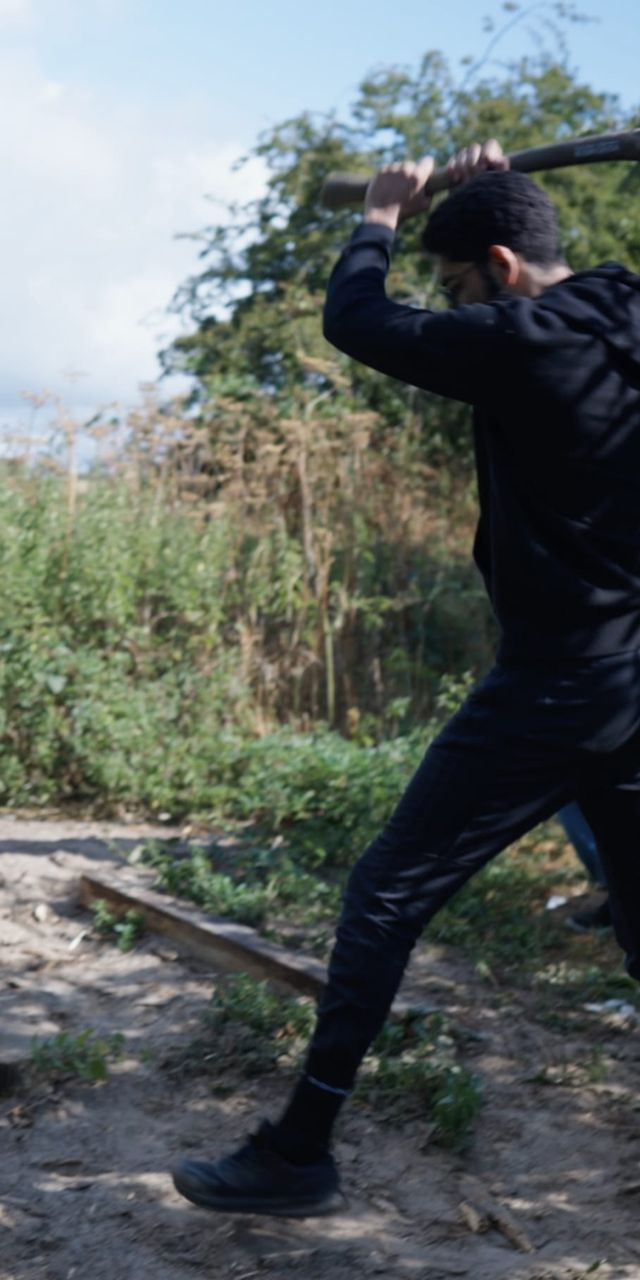
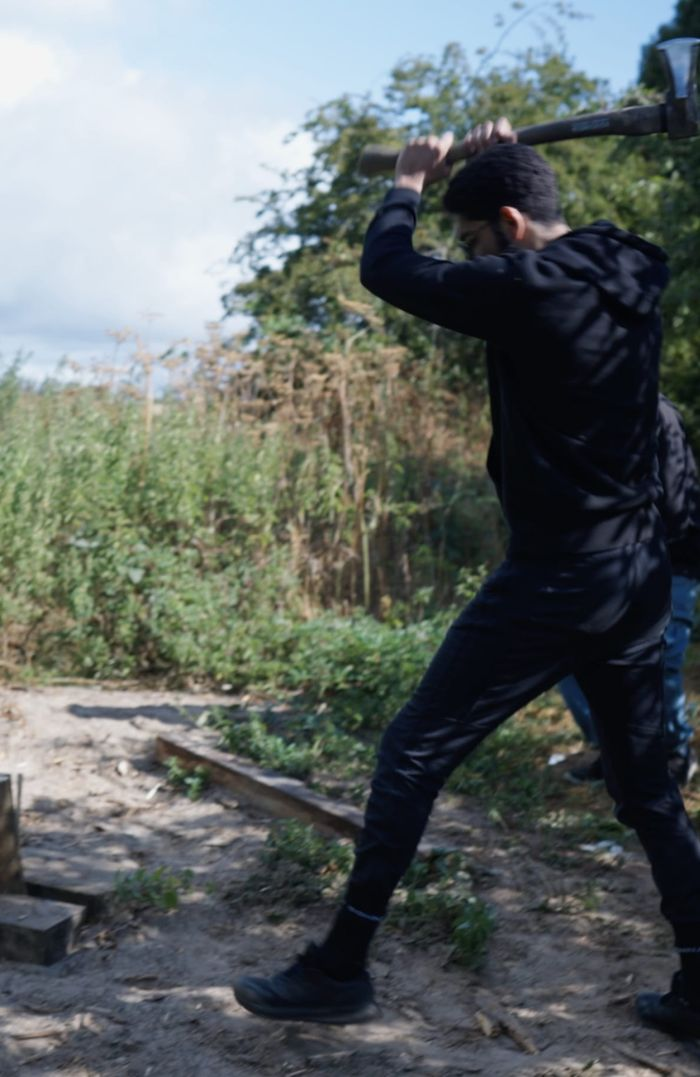
Pull the gallery crops back so the whole scene is in shot
The gallery cells render at roughly 4:3 on a desktop, but the photographs
were cut square, so object-fit cropped them a second time on top of the
crop I had already made. The sledgehammer shot lost the second man
swinging and most of the brothers watching; the axe shot lost the stump
being split.

Cut each one to the shape of the cell it lands in instead. The
sledgehammer now keeps 93% of the frame's width rather than 70%, and the
tall cell is 0.65 rather than 0.5, which brings the ground back into the
axe shot.

Two of the gallery images had also kept the width and height attributes
of the stock photographs they replaced, so the space the browser reserved
for them was the wrong shape. Every declared size now matches its file.

Claude-Session: https://claude.ai/code/session_01MxGJh3D1SjCUeranaM1zuK

diff --git a/index.html b/index.html
@@ -1473,22 +1473,22 @@ ul { margin: 0; padding: 0; list-style: none; }
       </div>
       <div class="gallery">
           <button type="button" class="gallery__item gallery__item--feature" data-lightbox>
-            <img src="images/two-riders-at-a-gallop-across-the-field.jpg" alt="Two riders at a gallop across the field" loading="lazy" decoding="async" width="1000" height="1000">
+            <img src="images/two-riders-at-a-gallop-across-the-field.jpg" alt="Two riders at a gallop across the field" loading="lazy" decoding="async" width="1200" height="900">
           </button>
           <button type="button" class="gallery__item " data-lightbox>
-            <img src="images/drawing-a-bow-at-full-draw.jpg" alt="An archer at full draw" loading="lazy" decoding="async" width="900" height="900">
+            <img src="images/drawing-a-bow-at-full-draw.jpg" alt="An archer at full draw" loading="lazy" decoding="async" width="1000" height="750">
           </button>
           <button type="button" class="gallery__item gallery__item--tall" data-lightbox>
-            <img src="images/splitting-logs-with-an-axe.jpg" alt="Splitting logs with an axe" loading="lazy" decoding="async" width="800" height="1029">
+            <img src="images/splitting-logs-with-an-axe.jpg" alt="Splitting logs with an axe" loading="lazy" decoding="async" width="700" height="1077">
           </button>
           <button type="button" class="gallery__item " data-lightbox>
-            <img src="images/the-camp-and-tents-at-the-retreat.jpg" alt="The camp and tents at the retreat" loading="lazy" decoding="async" width="900" height="657">
+            <img src="images/the-camp-and-tents-at-the-retreat.jpg" alt="The camp and tents at the retreat" loading="lazy" decoding="async" width="1000" height="750">
           </button>
           <button type="button" class="gallery__item " data-lightbox>
-            <img src="images/sledgehammer-and-tyre-training.jpg" alt="Sledgehammer and tyre training at the camp" loading="lazy" decoding="async" width="900" height="900">
+            <img src="images/sledgehammer-and-tyre-training.jpg" alt="Sledgehammer and tyre training at the camp" loading="lazy" decoding="async" width="1000" height="750">
           </button>
           <button type="button" class="gallery__item " data-lightbox>
-            <img src="images/lying-in-the-trench-in-reflection.jpg" alt="Lying in the trench in quiet reflection" loading="lazy" decoding="async" width="896" height="1152">
+            <img src="images/lying-in-the-trench-in-reflection.jpg" alt="Lying in the trench in quiet reflection" loading="lazy" decoding="async" width="1000" height="750">
           </button>
       </div>
     </div>
@@ -1600,7 +1600,7 @@ ul { margin: 0; padding: 0; list-style: none; }
   <div class="container site-footer__inner">
     <div class="site-footer__grid">
       <div class="site-footer__brand">
-        <img class="site-footer__logo" src="images/ummatically.png" alt="Ummatically" width="600" height="595" loading="lazy" decoding="async">
+        <img class="site-footer__logo" src="images/ummatically.png" alt="Ummatically" width="242" height="240" loading="lazy" decoding="async">
         <p class="site-footer__blurb">Developing Muslims mentally, physically &amp; spiritually through immersive experiences, brotherhood, outdoor challenges, and Islamic tarbiyah.</p>
         <form class="subscribe" id="subscribe" action="#" method="get">
           <label class="screen-reader-text" for="subscribe-email">Your email</label>
